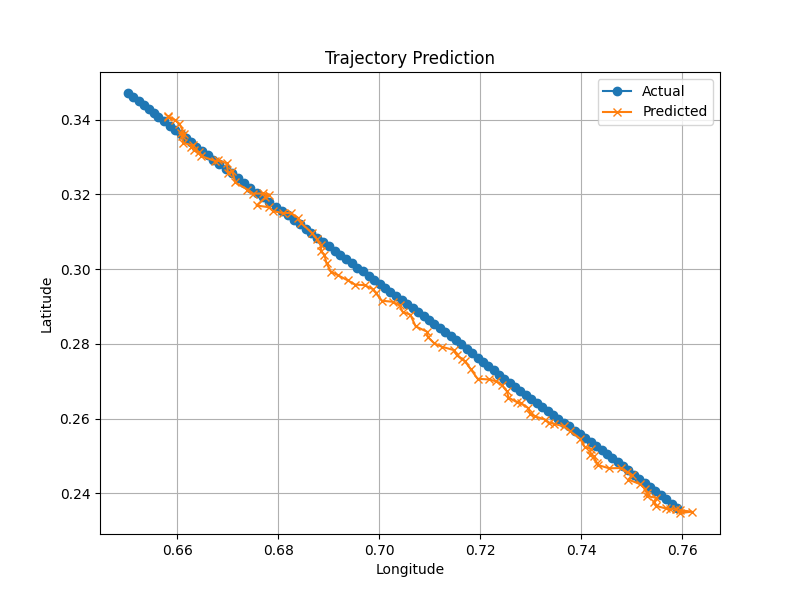
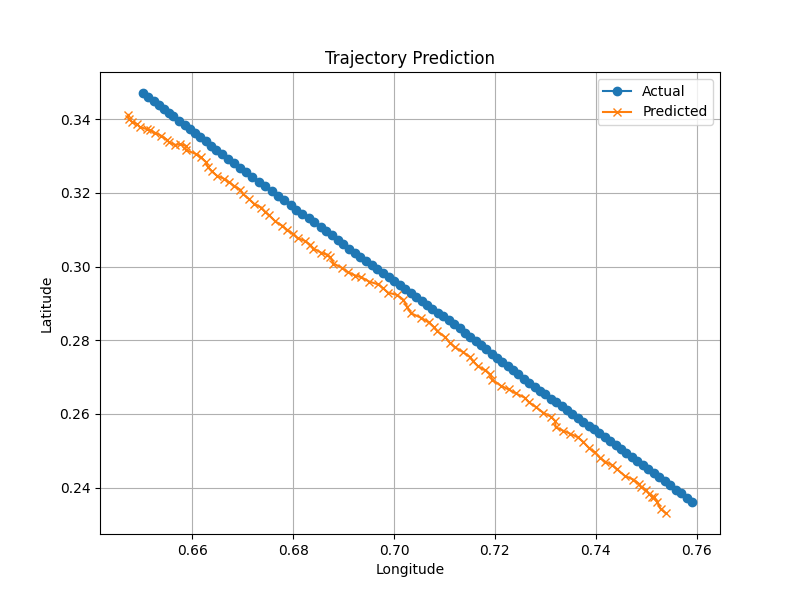
Add files via upload

diff --git a/prepare_dataset.py b/prepare_dataset.py
@@ -1,44 +1,112 @@
 import os
 import pandas as pd
 
-# Path to OXTS data folder
-folder_path = r"E:.\dataset\oxts_02\data"
+# ====================================
+# LOAD AIS DATASET
+# ====================================
 
-data = []
+df = pd.read_csv(
+    "dataset/nari_dynamic.csv"
+)
 
-files = sorted(os.listdir(folder_path))
+# ====================================
+# PRINT COLUMNS
+# ====================================
 
-for file in files:
+print(df.columns)
 
-    file_path = os.path.join(folder_path, file)
+# ====================================
+# SELECT REQUIRED COLUMNS
+# ====================================
 
-    with open(file_path, 'r') as f:
+df = df[
+    [
+        'sourcemmsi',
+        'lon',
+        'lat',
+        'speedoverground',
+        'courseoverground',
+        'trueheading',
+        't'
+    ]
+]
 
-        values = f.readline().split()
+# ====================================
+# REMOVE MISSING VALUES
+# ====================================
 
-        lat = float(values[0])
-        lon = float(values[1])
-        yaw = float(values[5])
+df = df.dropna()
 
-        vf = float(values[8])
+# ====================================
+# SORT BY TIME
+# ====================================
 
-        ax = float(values[11])
-        ay = float(values[12])
-        az = float(values[13])
+df = df.sort_values(by='t')
 
-        data.append([lat, lon, yaw, vf, ax, ay, az])
+# ====================================
+# RENAME COLUMNS
+# ====================================
 
-df = pd.DataFrame(data,
-                  columns=[
-                      'lat',
-                      'lon',
-                      'yaw',
-                      'vf',
-                      'ax',
-                      'ay',
-                      'az'
-                  ])
+df.columns = [
+    'mmsi',
+    'lon',
+    'lat',
+    'speed',
+    'course',
+    'heading',
+    'timestamp'
+]
 
-df.to_csv("trajectory_data.csv", index=False)
+# ====================================
+# SAVE CLEAN DATASET
+# ====================================
+
+df.to_csv(
+    "ship_trajectory_data.csv",
+    index=False
+)
+
+print("\nDataset Prepared Successfully!")
 
 print(df.head())
+# # Path to OXTS data folder
+# folder_path = r"E:.\dataset\nari_dynamic.csv"
+
+# data = []
+
+# files = sorted(os.listdir(folder_path))
+
+# for file in files:
+
+#     file_path = os.path.join(folder_path, file)
+
+#     with open(file_path, 'r') as f:
+
+#         values = f.readline().split()
+
+#         lat = float(values[0])
+#         lon = float(values[1])
+#         yaw = float(values[5])
+
+#         vf = float(values[8])
+
+#         ax = float(values[11])
+#         ay = float(values[12])
+#         az = float(values[13])
+
+#         data.append([lat, lon, yaw, vf, ax, ay, az])
+
+# df = pd.DataFrame(data,
+#                   columns=[
+#                       'lat',
+#                       'lon',
+#                       'yaw',
+#                       'vf',
+#                       'ax',
+#                       'ay',
+#                       'az'
+#                   ])
+
+# df.to_csv("trajectory_data.csv", index=False)
+
+# print(df.head())

diff --git a/plot_trajectory.py b/plot_trajectory.py
@@ -1,35 +1,81 @@
 import pandas as pd
-import matplotlib
-matplotlib.use('TkAgg')
-
-import pandas as pd
 import matplotlib.pyplot as plt
 
-# Load CSV
-df = pd.read_csv("trajectory_data.csv")
+# ====================================
+# LOAD DATA
+# ====================================
 
-print(df.head())
+df = pd.read_csv(
+    "ship_trajectory_data.csv"
+)
 
-# Create figure
+# ====================================
+# SELECT ONE SHIP
+# ====================================
+
+ship_id = df['mmsi'].iloc[0]
+
+df = df[
+    df['mmsi'] == ship_id
+]
+
+# ====================================
+# PLOT TRAJECTORY
+# ====================================
+
 plt.figure(figsize=(10,6))
 
-# Plot trajectory
-plt.plot(df['lon'], df['lat'], color='blue')
+plt.plot(
+    df['lon'],
+    df['lat']
+)
 
-# Labels
 plt.xlabel("Longitude")
 plt.ylabel("Latitude")
 
-# Title
-plt.title("Vehicle Trajectory")
+plt.title("Ship Trajectory")
 
-# Grid
 plt.grid(True)
 
-# Save image
-plt.savefig("trajectory.png")
+plt.savefig(
+    "ship_trajectory.png"
+)
 
-print("Trajectory image saved!")
-
-# Show plot
 plt.show()
+
+
+# import pandas as pd
+# import matplotlib
+# matplotlib.use('TkAgg')
+
+# import pandas as pd
+# import matplotlib.pyplot as plt
+
+# # Load CSV
+# df = pd.read_csv("trajectory_data.csv")
+
+# print(df.head())
+
+# # Create figure
+# plt.figure(figsize=(10,6))
+
+# # Plot trajectory
+# plt.plot(df['lon'], df['lat'], color='blue')
+
+# # Labels
+# plt.xlabel("Longitude")
+# plt.ylabel("Latitude")
+
+# # Title
+# plt.title("Vehicle Trajectory")
+
+# # Grid
+# plt.grid(True)
+
+# # Save image
+# plt.savefig("trajectory.png")
+
+# print("Trajectory image saved!")
+
+# # Show plot
+# plt.show()